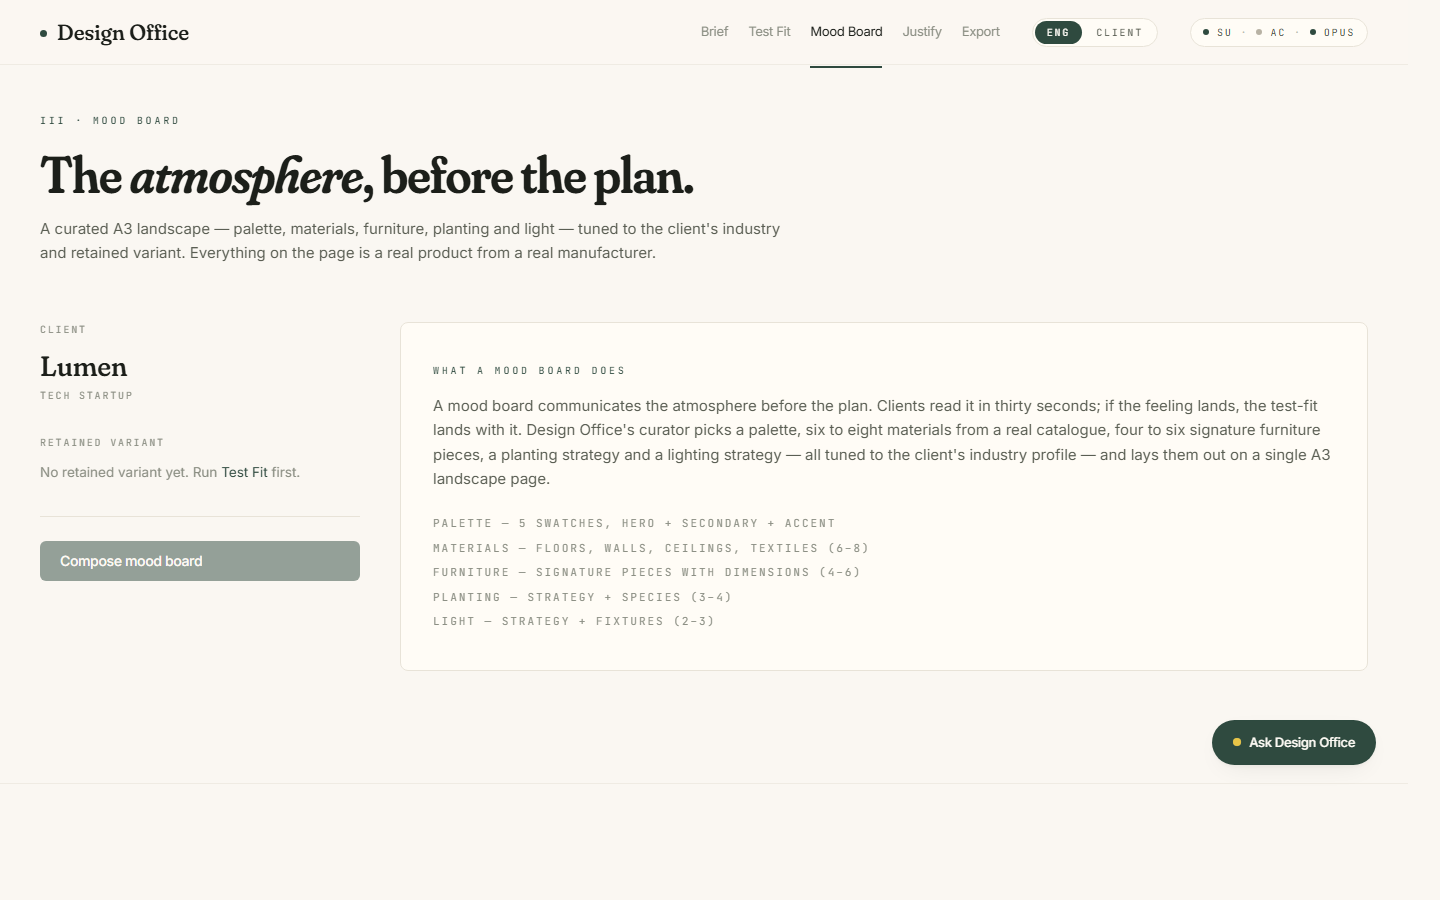
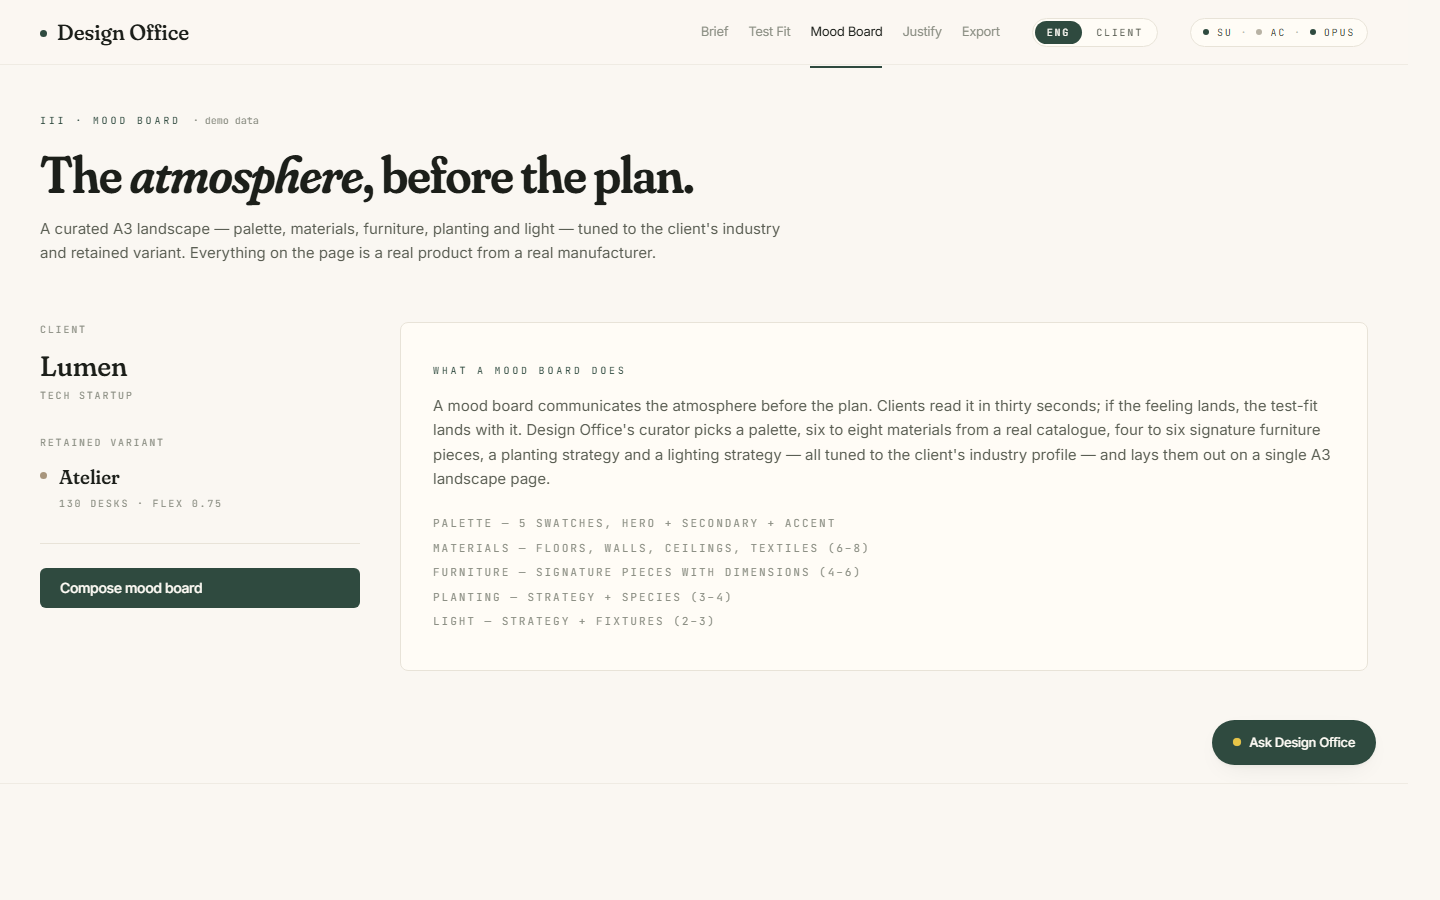
fix(ui): surface numbering + Mood Board cold-start demo mode
Visual tour found three numbering bugs after Mood Board took slot III in
the iteration-16 surface reshuffle, plus a missing cold-start path:

- Justify eyebrow said "III · Justify" — now "IV · Justify".
- Export eyebrow said "IV · Export" — now "V · Export".
- Landing "How it works" block said "Four surfaces" — now "Five surfaces".
- Mood Board showed an empty state ("No retained variant yet. Run Test
  Fit first.") when localStorage had no testfit result. A judge landing
  on /moodboard cold would be stuck. Now the page mirrors Justify +
  Export: on mount it fetches `/api/testfit/sample`, loads the 3-variant
  fixture into the unified project state, auto-picks the first
  approved variant as retained, and tags the eyebrow with "· demo data"
  so the origin is honest.

Re-captured the six page screenshots at 1440x900 with the corrected
numbering and populated Mood Board. Preflight: 28 pass / 0 warn / 0
fail (SketchUp MCP back live). pytest: 38 passed. tsc: clean.

Changed region(s): [[0.0, 0.5911, 0.25, 0.6844], [0.0312, 0.4978, 0.1875, 0.56]]

diff --git a/frontend/src/routes/MoodBoard.tsx b/frontend/src/routes/MoodBoard.tsx
@@ -5,6 +5,7 @@ import DotStatus from "../components/ui/DotStatus";
 import TypewriterText from "../components/ui/TypewriterText";
 import { useProjectState } from "../hooks/useProjectState";
 import {
+  fetchTestFitSample,
   generateMoodBoard,
   moodBoardPdfUrl,
   type MoodBoardResponse,
@@ -12,6 +13,7 @@ import {
 import {
   INDUSTRY_LABEL,
   setMoodBoard,
+  setTestFit,
   type VariantStyle,
 } from "../lib/projectState";
 
@@ -36,6 +38,37 @@ const STYLE_DOT: Record<VariantStyle, string> = {
 export default function MoodBoard() {
   const project = useProjectState();
   const [state, setState] = useState<State>({ kind: "idle" });
+  const [isSample, setIsSample] = useState(false);
+
+  // Cold-start demo mode: if the user lands here without running Test Fit
+  // first, auto-load the saved Lumen fixture so the page has content. The
+  // first approved variant is picked as the retained one.
+  useEffect(() => {
+    if (project.testfit) return;
+    const ac = new AbortController();
+    fetchTestFitSample(ac.signal)
+      .then((sample) => {
+        const firstApproved =
+          sample.variants.find(
+            (v) =>
+              sample.verdicts.find((r) => r.style === v.style)?.verdict ===
+                "approved_with_notes" ||
+              sample.verdicts.find((r) => r.style === v.style)?.verdict ===
+                "approved",
+          ) ?? sample.variants[0];
+        setTestFit({
+          floor_plan: sample.floor_plan,
+          variants: sample.variants,
+          verdicts: sample.verdicts,
+          live_screenshots: {},
+          retained_style: firstApproved?.style ?? null,
+        });
+        setIsSample(true);
+      })
+      .catch(() => null);
+    return () => ac.abort();
+  }, [project.testfit]);
+
   // Restore the last render for this project, if any.
   useEffect(() => {
     if (project.mood_board?.pdf_id && state.kind === "idle") {
@@ -92,7 +125,14 @@ export default function MoodBoard() {
   return (
     <div className="space-y-14">
       <header className="max-w-3xl">
-        <p className="eyebrow-forest">III · Mood Board</p>
+        <p className="eyebrow-forest">
+          III · Mood Board
+          {isSample && (
+            <span className="ml-3 text-ink-muted normal-case tracking-normal">
+              · demo data
+            </span>
+          )}
+        </p>
         <h1
           className="mt-5 font-display text-display-sm leading-[1.02] text-ink"
           style={{ fontVariationSettings: '"opsz" 144, "wght" 620, "SOFT" 100' }}

diff --git a/frontend/src/routes/Landing.tsx b/frontend/src/routes/Landing.tsx
@@ -149,7 +149,7 @@ export default function Landing() {
       {/* How it works */}
       <section id="how-it-works" className="grid grid-cols-12 gap-8">
         <div className="col-span-12 lg:col-span-4">
-          <p className="eyebrow-forest">Four surfaces</p>
+          <p className="eyebrow-forest">Five surfaces</p>
           <h2
             className="mt-6 font-display text-[48px] leading-[1.02] tracking-[-0.02em] text-ink md:text-[60px]"
             style={{ fontVariationSettings: '"opsz" 96, "wght" 560, "SOFT" 100' }}

diff --git a/frontend/src/routes/Export.tsx b/frontend/src/routes/Export.tsx
@@ -133,7 +133,7 @@ export default function ExportRoute() {
     <div className="space-y-20">
       <header className="max-w-3xl">
         <p className="eyebrow-forest">
-          IV · Export
+          V · Export
           {isSample && (
             <span className="ml-3 text-ink-muted normal-case tracking-normal">
               · demo data

diff --git a/frontend/src/routes/Justify.tsx b/frontend/src/routes/Justify.tsx
@@ -174,7 +174,7 @@ export default function Justify() {
     <div className="space-y-14">
       <header className="max-w-3xl">
         <p className="eyebrow-forest">
-          III · Justify
+          IV · Justify
           {isSample && (
             <span className="ml-3 text-ink-muted normal-case tracking-normal">
               · demo data
